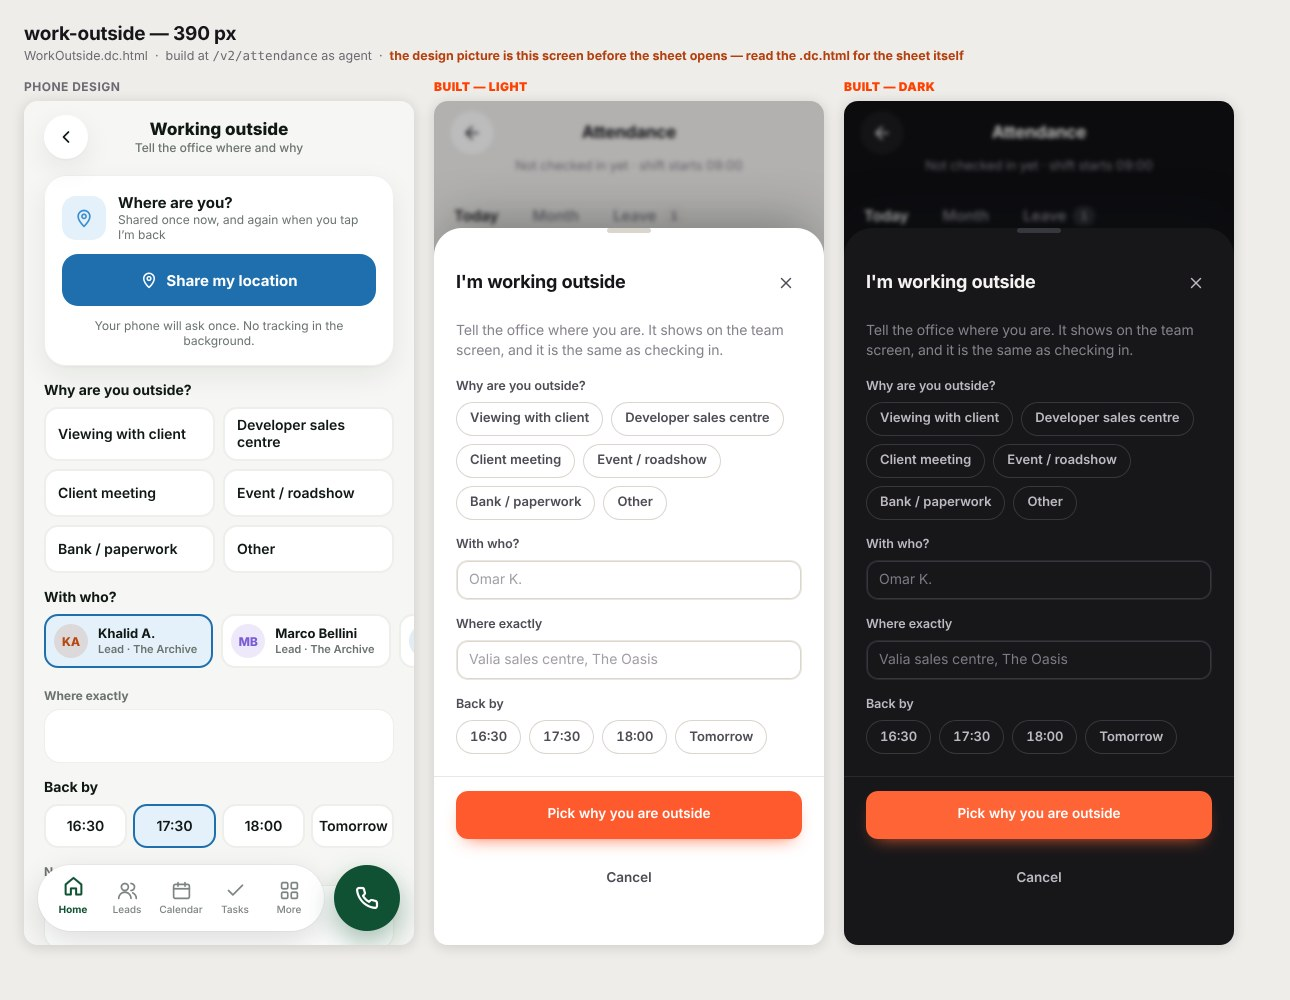
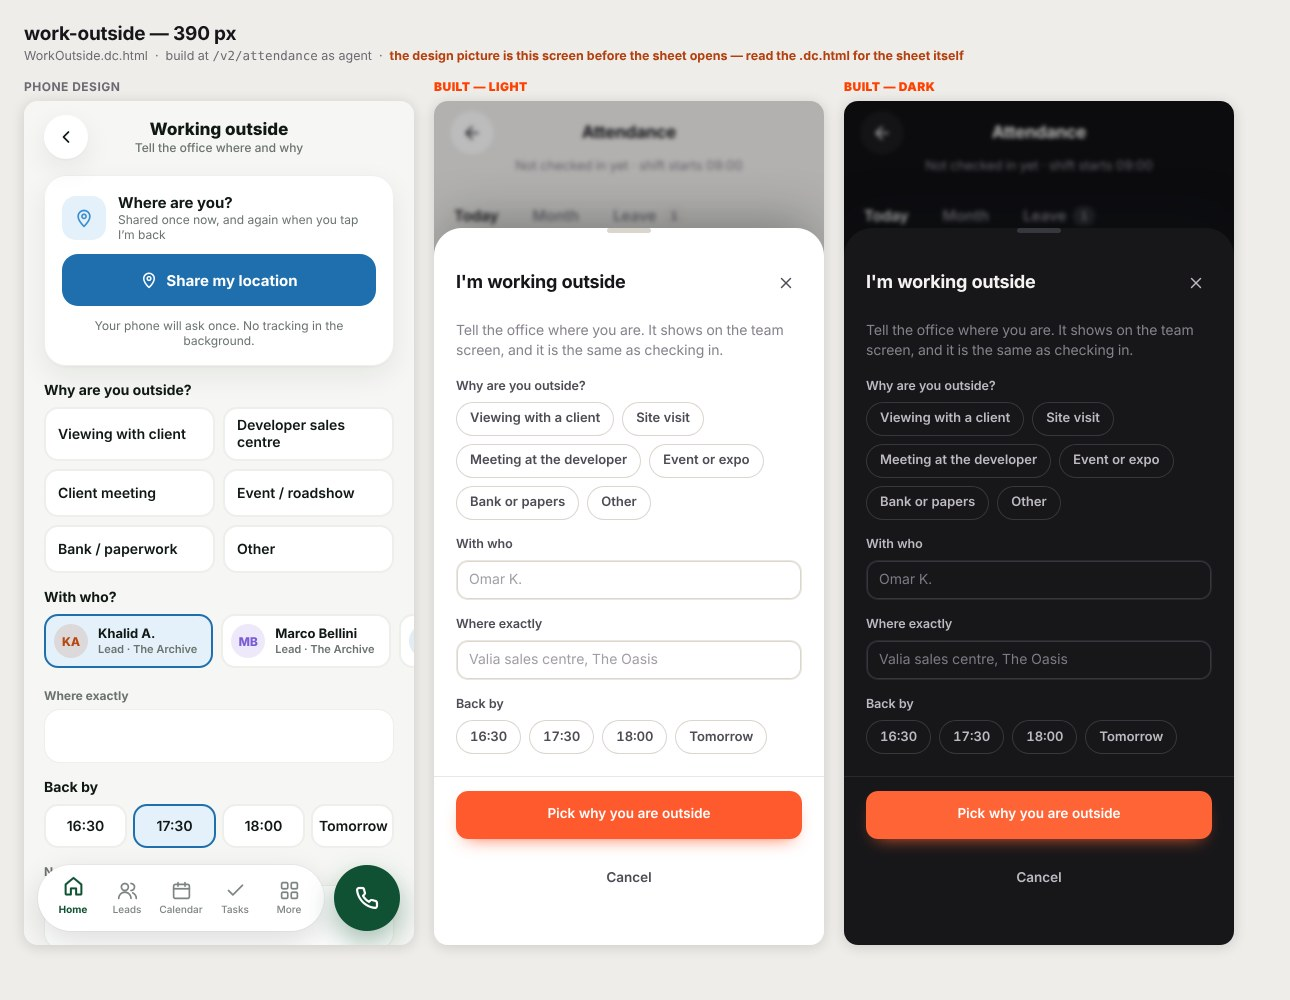
Phone, groups A and D against the pictures: two dead ends and a button that disappeared
Group A found a functional fault, not a layout one. "Start calling · N
ready" vanished from My Day whenever a VIP lead or the check-in card held
the top of the screen — which is exactly when an agent is most likely to be
reaching for it — and the only way left into the call list was through My
leads. It is always there now.

Also on the owner's home: every "Needs you now" row drew as three stacked
lines, because the design's own stylesheet gives `.d-srow` no layout
outside `.p-my-day`; and "Team right now" lost its last two columns off the
right edge. The date sits above the greeting, where both designs put it,
and the banner carousel is under the greeting instead of at the foot of the
page. "Turn on notifications", which the design draws and the build did not
have at all, is built.

Group D found that two things it had written down as impossible were not.
The feedback inbox has had `new · planned · fixed · declined` on the server
all along and only reached them through the reply box; and there is a
`POST /api/users`, so the CRM can now add a person — it never could, from
inside itself, in any version.

Six of group D's changes and one of group C's reach the computer, each
because the computer design asks for it. They are listed in
docs/v2/computer-pages.md with the reason for each.

Four more questions for Emir in docs/decisions-to-confirm.md: how a new
person gets their password, whether the push keys are set, whether Notes
[…]

diff --git a/web/src/v2/Attendance.tsx b/web/src/v2/Attendance.tsx
@@ -1244,11 +1244,17 @@ function OwnerMine({ mine, reload, onAsk }: { mine: Mine; reload: () => void; on
 
 /* ── the two side panels ───────────────────────────────────────────────── */
 
-/* The six `WorkOutside.dc.html` offers, in its order and its words. The note
-   the server keeps is one free line, so these are the design's exactly. */
+/*
+ * The six reasons, in `design/web/attendance.html`'s words.
+ *
+ * `WorkOutside.dc.html` names four of them differently — Developer sales
+ * centre, Client meeting, Event / roadshow, Bank / paperwork — and the
+ * computer design is the newer of the two, so these are its. The last one
+ * was "Something else" in the build and is "Other" in both designs.
+ */
 const WHY_OUTSIDE = [
-  'Viewing with client', 'Developer sales centre', 'Client meeting',
-  'Event / roadshow', 'Bank / paperwork', 'Other',
+  'Viewing with a client', 'Site visit', 'Meeting at the developer',
+  'Event or expo', 'Bank or papers', 'Other',
 ];
 
 function OutsidePanel({ onClose, onSaved }: { onClose: () => void; onSaved: () => void }) {
@@ -1317,10 +1323,11 @@ function OutsidePanel({ onClose, onSaved }: { onClose: () => void; onSaved: () =
             <span className="d-error">Choose why you are outside.</span>
           </div>
 
-          {/* The design asks who before where: "With who?" is a row of
-              leads, then "Where exactly" is the free line under it. */}
+          {/* Both designs ask who before where: "With who" is a lead name,
+              then "Where exactly" is the free line under it. The build had
+              the two the other way round. */}
           <div className="d-field">
-            <label htmlFor="v2-out-who">With who?</label>
+            <label htmlFor="v2-out-who">With who</label>
             <input
               id="v2-out-who"
               className="d-input"
@@ -1510,7 +1517,7 @@ function AskPanel({ onClose, onAsked }: { onClose: () => void; onAsked: () => vo
           <button type="button" className="d-btn d-ghost" onClick={onClose}>Cancel</button>
           <span className="d-grow" />
           <button type="button" className="d-btn d-primary" disabled={busy} onClick={send}>
-            {busy ? 'Sending…' : 'Send request'}
+            {busy ? 'Sending…' : 'Send the request'}
           </button>
         </div>
       </aside>

diff --git a/docs/decisions-to-confirm.md b/docs/decisions-to-confirm.md
@@ -281,3 +281,58 @@ phones and computers you are signed in on, sign one out. Nothing in the CRM
 reached it. There is now an address for it and the screen is being built,
 but nothing links to it yet except the settings list. Is Settings the right
 place for it, or do you want it on your profile page as well?
+
+## 19. How a new person gets their password
+
+There is now an **Invite a person** button on Team and roles — your design
+has one and the CRM never had any way to add somebody.
+
+Your design's form says *"They get an email with a link to set a
+password."* What the CRM actually does is different: it makes the account
+and shows you a **one-time password once**, for you to send them yourself.
+The form says that, with a copy button.
+
+There is a second way in the system that really does send an email, but it
+only takes an address and makes the name up from the part before the @ —
+so "Full name" would have to go.
+
+**A) Keep it as it is** (recommended — you hand the password over on
+WhatsApp, which is what happens today anyway, and the name is right).
+**B) Send the email instead**, and lose the name field.
+**C) Build the proper one**: an email with a link, and the name kept. Half
+a day of server work.
+
+## 20. "From your phone, computer or Google Drive"
+
+Your phone design says that under the import box. Your computer design says
+*"or click to choose a file from this computer"*, and the computer wins, so
+that is what is built. But "this computer" is wrong when somebody is
+standing in a lift with their phone.
+
+**A) Change both to "from your phone, computer or Google Drive"**
+(recommended). **B) Leave it.**
+
+## 21. Alerts on a locked phone — are the Firebase keys set?
+
+My Day now has the **"Turn on notifications"** card your design draws, and
+it asks the phone properly. But a message only reaches a phone that is
+locked and in a pocket if the push keys are set on the server, and I cannot
+see from here whether they are on crm.homes.me.
+
+Right now the card says exactly that and nothing more: *"This phone will
+show alerts. Leads on the lock screen need one more switch from the
+office."*
+
+**A) Set the keys** (recommended — it is the difference between an agent
+seeing a VIP lead in thirty seconds and seeing it when they next open the
+CRM). `SETUP_NEEDED.md` lists which ones. **B) Hide the card** until they
+are set, so nobody is promised something that does not happen.
+
+## 22. Should Notes be its own screen?
+
+Your phone design draws **Notes** as a screen of its own. In the build it
+is a tab on the lead, two screenfuls down — tapping it now scrolls it to
+the top so it fills the phone, which is most of the way there.
+
+**A) Leave it as a tab** (recommended — one less screen to go back from).
+**B) Give it its own address**, exactly as the design has it.

diff --git a/docs/v2/computer-pages.md b/docs/v2/computer-pages.md
@@ -64,3 +64,24 @@ preview uses gained two fields the real CRM has always sent: whether a lead
 is **VIP**, and whether it **came back to you**. So the VIP tag and the
 "Came back to you" line appear in the preview now. On the real CRM they
 always did.
+
+---
+
+# A second round, after Emir sent pictures of the designs
+
+*Rendering the prototypes drew every state stacked, so small differences
+were invisible. With the owner's own pictures as the left panel, the four
+groups went through all 59 again. Seven more changes reach the computer,
+each because the **computer** design asks for it.*
+
+| Page | What changed above 768px | Why |
+|---|---|---|
+| Team and roles | **"Invite a person"** — a button and a form. There was no way to add anybody to the CRM from inside it. | Both designs draw it, and `POST /api/users` has existed all along. |
+| Team activity | A **Activity · Live · Messaging** row. | It was the only one of the three reports with no way out of it. The computer design has the row. |
+| Messaging report | The same row gained its missing **Live** link. | Same. |
+| Feedback inbox | The filter words are **New · Planned · Fixed · All**, each with its count, and each card has **Plan it** and **Mark fixed**. | Both designs say those words. The build had invented five of its own, and the only way to change a report's state was through the reply box. |
+| Feedback inbox | **"Answer"** is now **"Reply"**. | Both designs. |
+| Phone app | Step 1 prints the real address — **crm.homes.me** — instead of "the same address you use here". | The design prints it, and an agent setting up a new phone needs to read it. |
+| Team | The second tab is **Best of Homes**, not "Team wall", and goes there. | `design/web/team.html` draws that pair, and Best of Homes already drew the same row the other way round. The two disagreed. |
+
+Everything else the groups changed is inside `@media (max-width: 767px)`.
